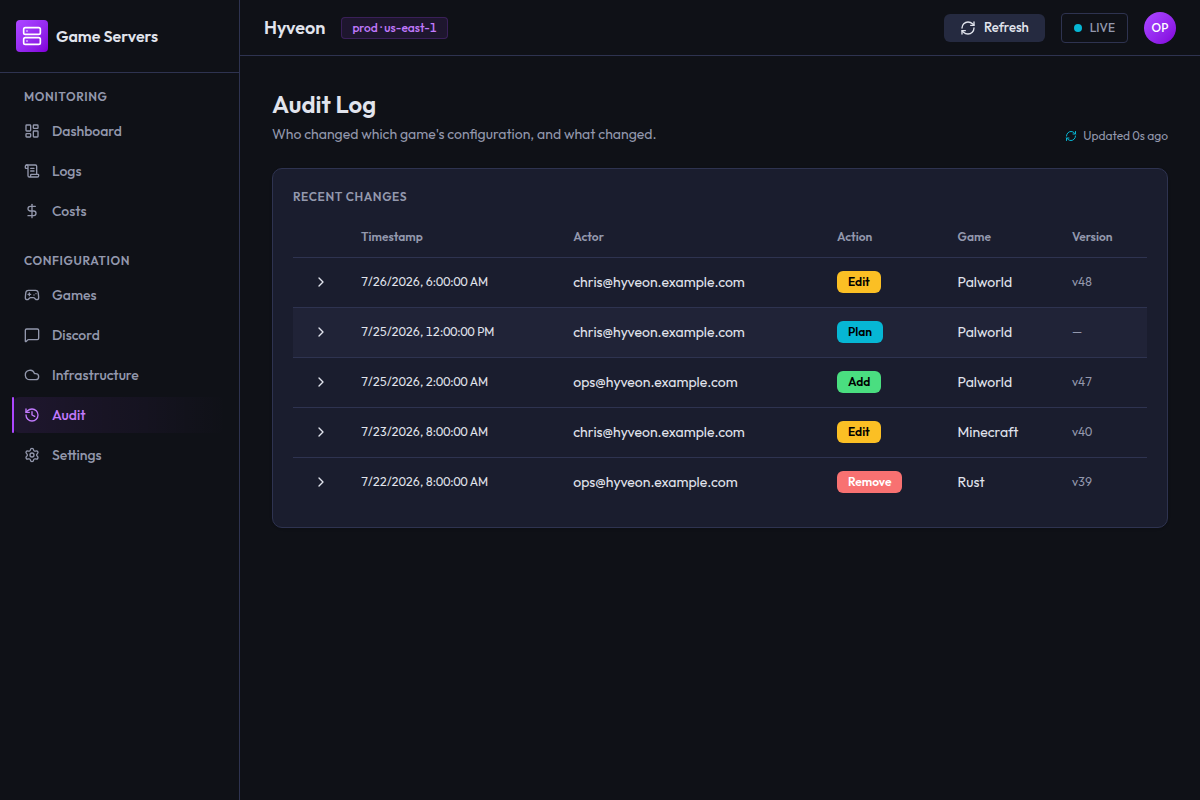
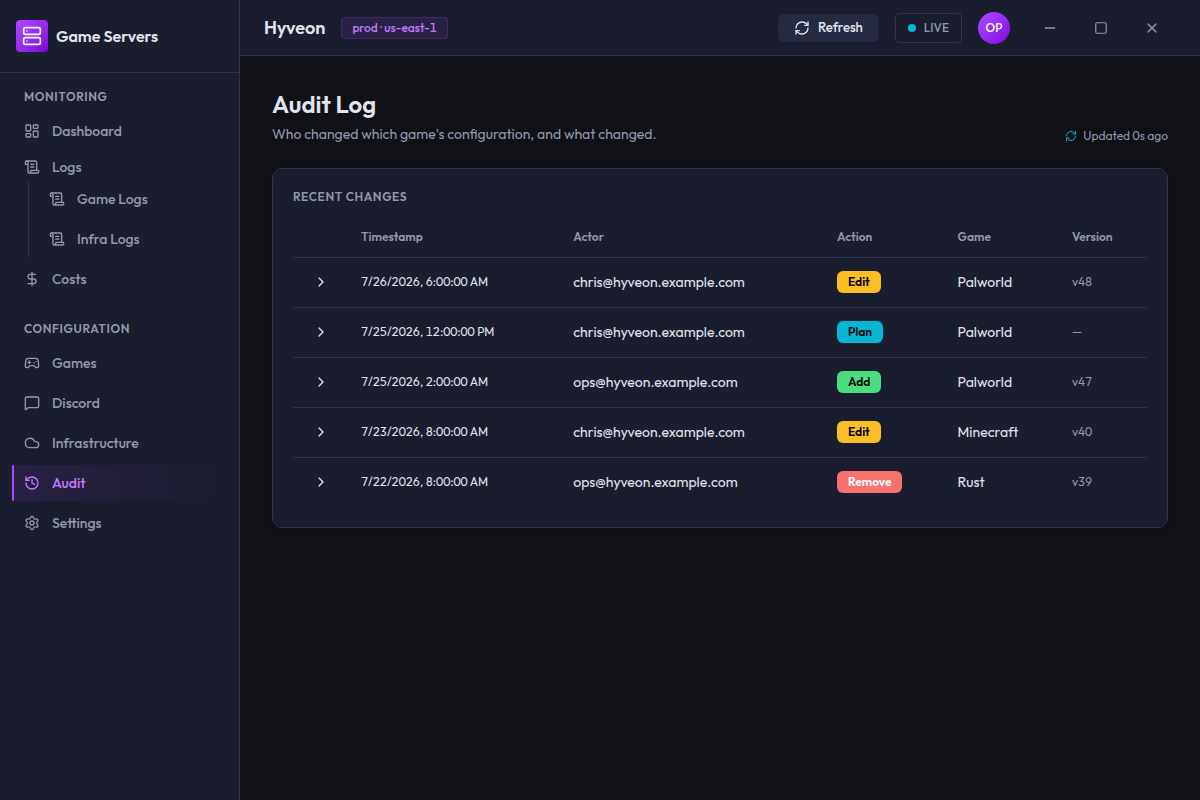
chore(docs): regenerate app screenshots and capture two missing routes
Every screenshot under docs/static/img/app/ predates the custom title bar,
Cloud Health section, auto-update controls, Check Now, diagnostics export,
port visibility, and health-check auth. Regenerate all 18 via
`npm run docs:screenshots` and add two new captures for routes the harness
skipped: /logs/infrastructure and /iac/history/:runId.

Along the way, fixed latent bugs in the capture harness that blocked a full
regeneration (none touch production code):
- demo-data.ts's `logs.get` mock returned raw strings where the real
  `logs.get`/`logs.lambda.get` IPC channels return `LogEventLine[]` objects,
  crashing the /logs and /logs/infrastructure routes at render time.
- seedWizard never mocked `wizard.bootstrap.runsTable` /
  `wizard.bootstrap.deploymentConfig`, so the bootstrap step's "Next" button
  never enabled (both now gate `useBootstrapResources`'s `complete` flag
  alongside the two S3 buckets already mocked).
- capture.spec.ts's iac-awaiting-approval.png assertion collided with
  identical text inside the streamed plan log; disambiguated via `.first()`.
- capture.spec.ts's guided-iam-region test filled a now-nonexistent text
  input — the region field is a Radix Select; switched to
  GuidedIamWizardPage.selectRegion().
- The new iac-history-detail.png test used IacHistoryPage.gotoDetail()
  (page.goto), which doesn't resolve on the packaged app's file:// origin;
  switched to the spec's own hash-based gotoRoute() helper.
[…]

diff --git a/app/packages/web/e2e/screenshots/demo-data.ts b/app/packages/web/e2e/screenshots/demo-data.ts
@@ -37,6 +37,7 @@ import type {
 } from '@hyveon/shared';
 import type { WizardStep } from '@hyveon/shared';
 import type {
+  LogEventLine,
   RunHistoryPageResult,
   RunHistoryRecord,
   StackInitPhaseEvent,
@@ -47,6 +48,7 @@ import type {
   IacRunsGetResult,
   WizardState,
 } from '@hyveon/desktop-preload';
+import type { LambdaFunctionKey } from '@hyveon/shared';
 import type {
   CostEstimates,
   DiscordConfigRedacted,
@@ -99,7 +101,7 @@ export interface WizardProgress {
 /** Mirrors `GameLogs` in `hyveon-api.ts` — the response shape of the `logs.get` IPC channel. */
 export interface GameLogs {
   game: string;
-  lines: string[];
+  lines: LogEventLine[];
 }
 
 // Fixed clock — every timestamp-bearing fixture below is anchored to this
@@ -321,6 +323,48 @@ export const DEMO_LOG_STREAM_LINES: string[] = [
   '2026-07-26T12:15:12Z INFO Autosave finished in 2984 ms',
 ];
 
+/** Leading `YYYY-MM-DDTHH:mm:ssZ` timestamp prefix shared by every demo log line string. */
+const LOG_LINE_TIMESTAMP_PATTERN = /^(\d{4}-\d{2}-\d{2}T\d{2}:\d{2}:\d{2}Z)/;
+
+/**
+ * Converts the flat demo log-line strings above into the `LogEventLine[]`
+ * shape the real `logs.get`/`logs.lambda.get` IPC channels return — each
+ * line's own leading ISO timestamp becomes its CloudWatch `timestamp`, and a
+ * synthesized `${timestamp}:${index}` becomes its `eventId`, matching
+ * `LogsService`'s convention (`hyveon-api.ts`'s `LogEventLine` doc comment).
+ */
+function toLogEventLines(lines: string[]): LogEventLine[] {
+  return lines.map((message, index) => {
+    const match = LOG_LINE_TIMESTAMP_PATTERN.exec(message);
+    const timestamp = match ? new Date(match[1]!).getTime() : new Date(DEMO_NOW).getTime() + index;
+    return { message, timestamp, eventId: `${timestamp}:${index}` };
+  });
+}
+
+// Infrastructure (Lambda) logs — one short, function-flavoured line per
+// `LambdaFunctionKey` so the `/logs/infrastructure` picker has something
+// distinct to show for each button.
+
+export const DEMO_LAMBDA_LOG_LINES: Record<LambdaFunctionKey, string[]> = {
+  watchdog: [
+    '2026-07-26T11:55:02Z INFO watchdog: minecraft idle check 1/4',
+    '2026-07-26T11:58:20Z INFO watchdog: palworld idle check reset (player activity)',
+  ],
+  'health-check': [
+    '2026-07-26T11:56:10Z INFO health-check: minecraft TLS handshake ok',
+    '2026-07-26T11:56:10Z INFO health-check: palworld TLS handshake ok',
+  ],
+  'dns-updater': [
+    '2026-07-26T11:58:21Z INFO dns-updater: UPSERT minecraft.hyveon.example.com -> 203.0.113.42',
+  ],
+  interactions: [
+    '2026-07-26T12:00:41Z INFO interactions: /status minecraft from chris',
+  ],
+  followup: [
+    '2026-07-26T12:00:42Z INFO followup: delivered deferred response for /status',
+  ],
+};
+
 // Diagnostics tail (Settings page)
 
 export const DEMO_DIAGNOSTICS_TAIL: string[] = [
@@ -485,8 +529,11 @@ export async function seedDemo(win: Page, overrides: DemoOverrides = {}): Promis
     discord: overrides.discord ?? DEMO_DISCORD_CONFIG,
     drift: overrides.drift ?? DEMO_DRIFT_REPORT,
     audit: overrides.audit ?? DEMO_AUDIT,
-    logLines: overrides.logLines ?? DEMO_LOG_LINES,
+    logLines: toLogEventLines(overrides.logLines ?? DEMO_LOG_LINES),
     logStreamLines: overrides.logStreamLines ?? DEMO_LOG_STREAM_LINES,
+    lambdaLogLines: Object.fromEntries(
+      Object.entries(DEMO_LAMBDA_LOG_LINES).map(([key, lines]) => [key, toLogEventLines(lines)]),
+    ) as Record<LambdaFunctionKey, LogEventLine[]>,
     iacHistory: overrides.iacHistory ?? DEMO_IAC_HISTORY,
     iacPlanChunks: overrides.iacPlanChunks ?? DEMO_IAC_PLAN_CHUNKS,
     iacApplyChunks: overrides.iacApplyChunks ?? DEMO_IAC_APPLY_CHUNKS,
@@ -556,6 +603,16 @@ export async function seedDemo(win: Page, overrides: DemoOverrides = {}): Promis
     // snapshot above is already rendered — see `toIterable`'s TSDoc for why
     // this is a plain-object iterable rather than a real `async function*`.
     mock('logs.stream', () => toIterable(d.logStreamLines));
+
+    // Infrastructure (Lambda) logs — `/logs/infrastructure`'s function picker
+    // starts on `'watchdog'`; each button switch re-fetches `logs.lambda.get`
+    // for the newly-selected function key.
+    mock('logs.lambda.get', (arg: unknown) => {
+      const opts = (arg ?? {}) as { functionKey?: LambdaFunctionKey; limit?: number };
+      const functionKey = opts.functionKey ?? 'watchdog';
+      return Promise.resolve({ functionKey, lines: d.lambdaLogLines[functionKey] ?? [] });
+    });
+    mock('logs.lambda.stream', () => toIterable([]));
 
     mock('diagnostics.tail', () => Promise.resolve({ lines: d.diagnosticsLines }));
     mock('diagnostics.path', () => Promise.resolve({ path: d.diagnosticsPath }));
@@ -694,6 +751,11 @@ export async function seedWizard(win: Page, resumeStep: WizardStep = 'pick-cloud
     );
     mock('wizard.bootstrap.stateBucket', () => Promise.resolve(d.bootstrapCreated));
     mock('wizard.bootstrap.configurationBucket', () => Promise.resolve(d.bootstrapExists));
+    // Both gate `useBootstrapResources`'s `complete` flag (which enables the
+    // step's "Next" button) alongside the two buckets above — see that
+    // hook's TSDoc for why they're tracked as separate resources.
+    mock('wizard.bootstrap.runsTable', () => Promise.resolve(d.bootstrapCreated));
+    mock('wizard.bootstrap.deploymentConfig', () => Promise.resolve(d.bootstrapCreated));
     mock('wizard.iam.simulate', () => Promise.resolve(d.iamPassed));
     mock('wizard.complete', () => Promise.resolve({ wizardCompleted: true }));
     // `GuidedIamStep`'s template screen — mocked so the harness never shells

diff --git a/app/packages/web/e2e/screenshots/capture.spec.ts b/app/packages/web/e2e/screenshots/capture.spec.ts
@@ -20,7 +20,7 @@ import { fileURLToPath } from 'node:url';
 import { expect, test, type Page } from '@playwright/test';
 import type { ElectronApplication } from 'playwright-core';
 import { launchElectron } from '../fixtures/index.js';
-import { GamesPage, IacHistoryPage, IacPage } from '../pages/index.js';
+import { GamesPage, GuidedIamWizardPage, IacHistoryPage, IacPage, InfrastructureLogsPage } from '../pages/index.js';
 import { DEMO_LOG_STREAM_LINES, DEMO_NOW, seedDemo, seedWizard } from './demo-data.js';
 
 /** Repo root, five directories above this file (`app/packages/web/e2e/screenshots/`). */
@@ -192,6 +192,22 @@ test('logs.png', async () => {
   }
 });
 
+test('logs-infrastructure.png', async () => {
+  const { app, win } = await launchSeeded((w) => seedDemo(w));
+  try {
+    const infraLogs = new InfrastructureLogsPage(win);
+    await gotoRoute(win, '/logs/infrastructure');
+    await disableMotion(win);
+    await expect(infraLogs.heading()).toBeVisible();
+    // Function picker defaults to `'watchdog'` (`InfrastructureLogsPage.tsx`) — its seeded
+    // `logs.lambda.get` snapshot line proves both the picker and the fetch wired correctly.
+    await expect(win.getByText('watchdog: minecraft idle check 1/4')).toBeVisible();
+    await shot(win, 'logs-infrastructure.png');
+  } finally {
+    await app.close();
+  }
+});
+
 test('costs.png', async () => {
   const { app, win } = await launchSeeded((w) => seedDemo(w));
   try {
@@ -267,8 +283,13 @@ test('iac-awaiting-approval.png', async () => {
     // renders a badge for counts > 0).
     await iac.runPlanButton().click();
     await expect(iac.approveButton()).toBeVisible();
-    await expect(iac.summaryBadge('1 to create')).toBeVisible();
-    await expect(iac.summaryBadge('1 to update')).toBeVisible();
+    // `.first()`: `DEMO_IAC_PLAN_CHUNKS`'s streamed log text below the badges
+    // also contains the literal string "1 to create"/"1 to update" once
+    // ANSI codes are stripped, so an unqualified `summaryBadge` locator
+    // matches both the `ChangeSummaryStatus` badge and the log line — the
+    // badge is the first match, since it renders above the log viewer.
+    await expect(iac.summaryBadge('1 to create').first()).toBeVisible();
+    await expect(iac.summaryBadge('1 to update').first()).toBeVisible();
     await disableMotion(win);
     await shot(win, 'iac-awaiting-approval.png');
   } finally {
@@ -326,6 +347,26 @@ test('iac-history.png', async () => {
   }
 });
 
+test('iac-history-detail.png', async () => {
+  const { app, win } = await launchSeeded((w) => seedDemo(w));
+  try {
+    const history = new IacHistoryPage(win);
+    // `run-9` is `DEMO_IAC_HISTORY`'s most recent record (`demo-data.ts`) — a
+    // completed, approved apply, the most illustrative single record for a
+    // read-only run-detail screenshot. Uses `gotoRoute` (hash assignment),
+    // not `history.gotoDetail` (`page.goto`) — the packaged app loads from a
+    // `file://` origin, so `page.goto('/#/...')` never resolves; see this
+    // file's `gotoRoute` doc comment.
+    await gotoRoute(win, '/iac/history/run-9');
+    await disableMotion(win);
+    await expect(history.detailHeading()).toBeVisible();
+    await expect(win.getByText('chris@hyveon.example.com')).toBeVisible();
+    await shot(win, 'iac-history-detail.png');
+  } finally {
+    await app.close();
+  }
+});
+
 // First-run wizard
 
 test('wizard-pick-cloud.png', async () => {
@@ -343,7 +384,10 @@ test('wizard-pick-cloud.png', async () => {
 test('wizard-guided-iam.png', async () => {
   const { app, win } = await launchSeeded((w) => seedWizard(w, 'guided-iam'));
   try {
-    await win.locator('#wizard-guided-iam-region').fill('us-east-1');
+    // The region/choice screen's region field is a continent-grouped Radix
+    // `Select`, not a plain text input — `GuidedIamWizardPage.selectRegion`
+    // opens it and picks the option by its accessible label.
+    await new GuidedIamWizardPage(win).selectRegion('US East (N. Virginia) — us-east-1');
     await win.getByRole('button', { name: 'Continue with guided setup' }).click();
     // `GuidedIamStep` moves `region` -> `template` and fires
     // `wizard.guidedIam.prepareTemplate()` (mocked in `demo-data.ts`'s

diff --git a/docs/docs/app/logs.md b/docs/docs/app/logs.md
@@ -204,6 +204,8 @@ line* rather than in the banner, prefixed `[stream error]`.
 
 The **Infra Logs** page (route `/logs/infrastructure`) is this page's sibling: it tails one of the app's 5 Lambda functions instead of a game server.
 
+![The Infrastructure logs screen with the watchdog function selected, a row of 5 function-picker buttons, and a stream of log lines](/img/app/logs-infrastructure.png)
+
 Both pages are thin wrappers around the same `useLogTail` hook, so tail/pause, ANSI colour rendering, search highlighting, autoscroll, and the 300-line window with scroll-up history backfill all behave exactly as described above in [ANSI colour rendering](#ansi-colour-rendering), [Search highlights, it does not filter](#search-highlights-it-does-not-filter), [Autoscroll](#autoscroll), [Pause and Resume](#pause-and-resume) and [The 300-line window, and scrolling up for history](#the-300-line-window-and-scrolling-up-for-history) — nothing about that behaviour differs between the two pages.
 
 What's different is where the logs come from and how you pick a target:

diff --git a/docs/docs/app/iac.md b/docs/docs/app/iac.md
@@ -314,6 +314,8 @@ captured log — and it **never offers Approve or Apply**. Every record in
 history describes a run that has already finished, so there is nothing to
 approve.
 
+![The Run detail page for a single historical apply, showing its status badge, start/completion times, approver, and change summary above a read-only log viewer](/img/app/iac-history-detail.png)
+
 The log is resolved from whichever source still has it: the run's log file on
 this machine, an inline copy stored on the run record, or a link to an
 offloaded copy in S3. If none of those exist you see:
